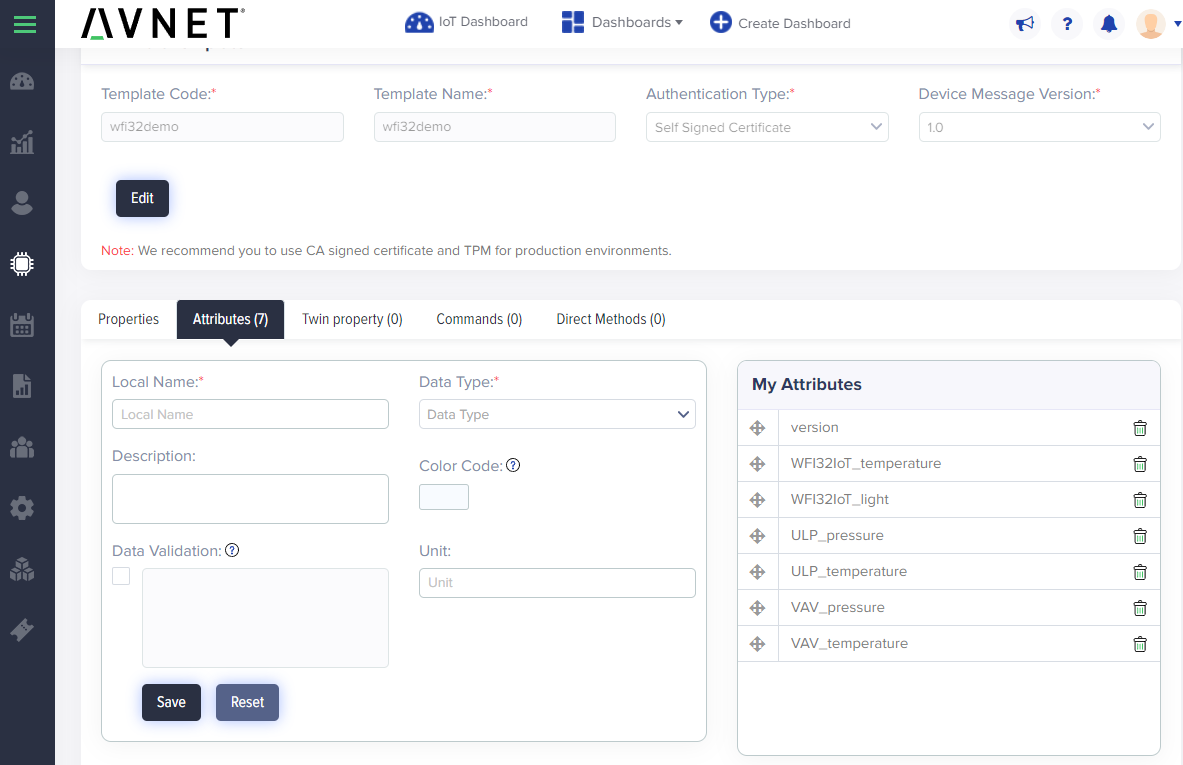
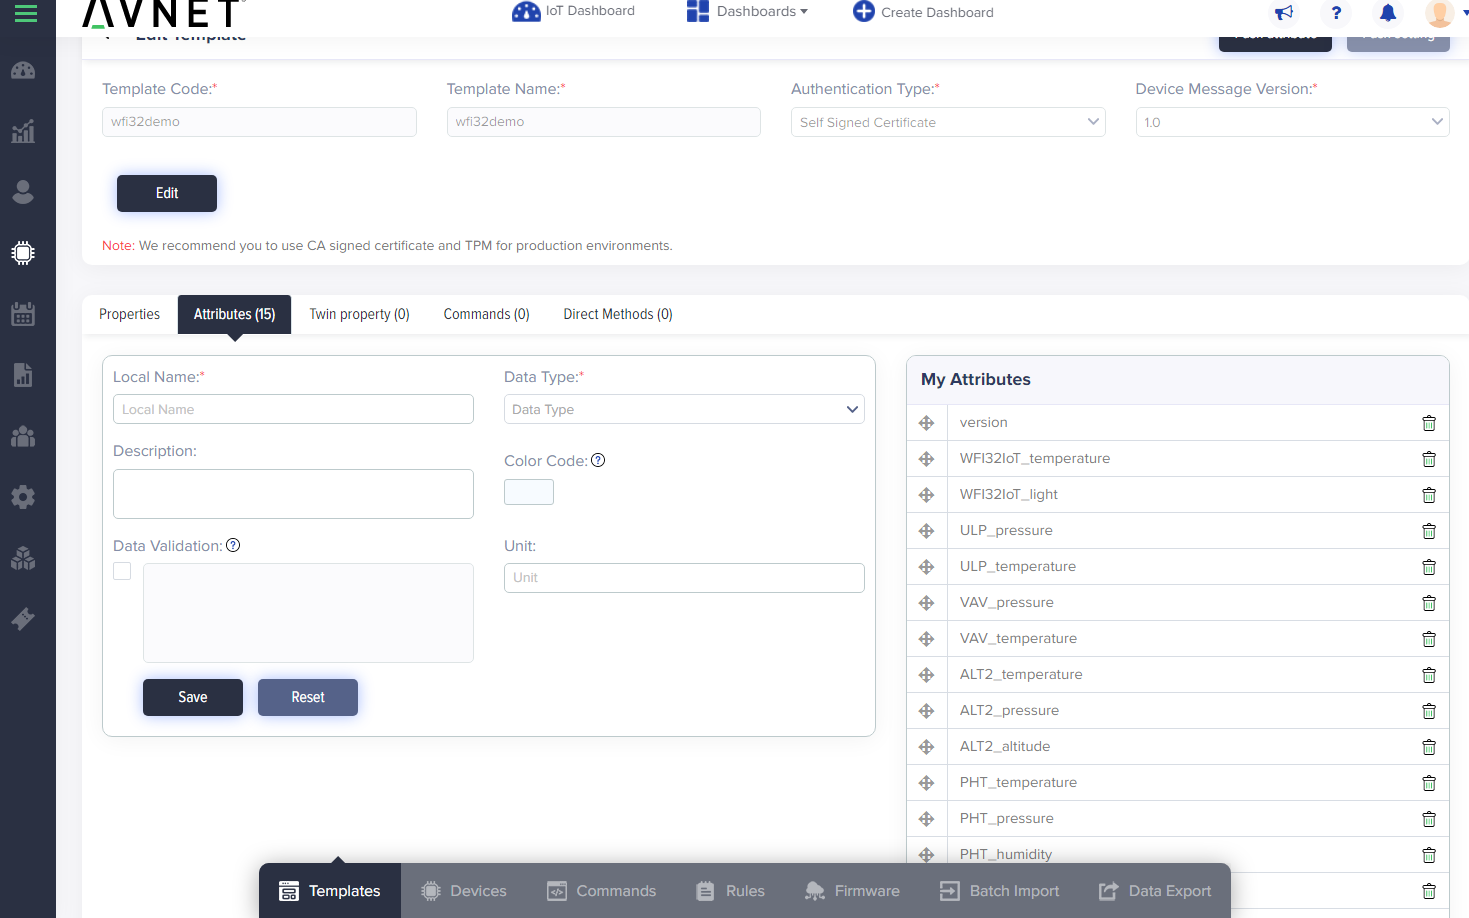
wfi32iot: support Altitude 2, PHT and Temp&Hum Click boards

diff --git a/samples/wfi32iot/basic-sample/src/iotconnect_app.c b/samples/wfi32iot/basic-sample/src/iotconnect_app.c
@@ -21,9 +21,23 @@
 #endif
 
 extern UCHAR _nx_driver_hardware_address[];
+
+
+// Various Click Board sensors supported by the demo
+extern ALTITUDE2_RETVAL ALTITUDE2_status;
+static ALTITUDE2_Data altitude2;
+
+extern PHT_RETVAL PHT_status;
+static PHT_Data pht;
+
+extern temphum14_return_value_t TEMPHUM14_status;
+static uint32_t HTU31_serialNumber;
+
 extern vavpress_sensor_param_data_t VAVPRESS_param_data;
 extern vavpress_return_value_t VAVPRESS_status;
 extern ultralowpress_return_value_t ULTRALOWPRESS_status;
+// ///////////////////
+
 
 static IotConnectAzrtosConfig azrtos_config;
 static IotcAuthInterfaceContext auth_driver_context = NULL;
@@ -167,6 +181,7 @@ static void publish_telemetry() {
         iotcl_telemetry_set_number(msg, "ULP_temperature", ULTRALOWPRESS_getTemperature());
         iotcl_telemetry_set_number(msg, "ULP_pressure", ULTRALOWPRESS_getPressure());            
     }
+
     if (VAVPRESS_status == VAVPRESS_OK) {
         float temperature, pressure;
         if (VAVPRESS_getSensorReadings(&VAVPRESS_param_data, &pressure, &temperature) == VAVPRESS_OK) {
@@ -174,7 +189,34 @@ static void publish_telemetry() {
             iotcl_telemetry_set_number(msg, "VAV_pressure", pressure);
         }
     }
-    
+
+    if (ALTITUDE2_status == ALTITUDE2_OK) {
+        float ALT2_temperature, ALT2_pressure, ALT2_altitude;
+        ALTITUDE2_readData(&altitude2, &ALT2_temperature, &ALT2_pressure, &ALT2_altitude);
+        iotcl_telemetry_set_number(msg, "ALT2_temperature", ALT2_temperature);
+        iotcl_telemetry_set_number(msg, "ALT2_pressure", ALT2_pressure);
+        iotcl_telemetry_set_number(msg, "ALT2_altitude", ALT2_altitude);
+    }
+
+    if (PHT_status == PHT_OK) {
+        float PHT_temperature, PHT_pressure, PHT_humidity;
+        PHT_getTemperaturePressure(&pht, &PHT_temperature, &PHT_pressure);
+        PHT_getRelativeHumidity(&PHT_humidity);
+        iotcl_telemetry_set_number(msg, "PHT_temperature", PHT_temperature);
+        iotcl_telemetry_set_number(msg, "PHT_pressure", PHT_pressure);
+        iotcl_telemetry_set_number(msg, "PHT_humidity", PHT_humidity);
+    }
+
+    if (HTU31_serialNumber != 0) {
+        float TEMPHUM14_temperature, TEMPHUM14_humidity;
+        TEMPHUM14_setConversion( TEMPHUM14_I2C_SLAVE_ADDR_GND, TEMPHUM14_CONVERSION_HUM_OSR_0_020, TEMPHUM14_CONVERSION_TEMP_0_040 );
+        TEMPHUM14_getTemperatureHumidity (TEMPHUM14_I2C_SLAVE_ADDR_GND, &TEMPHUM14_temperature, &TEMPHUM14_humidity );
+        iotcl_telemetry_set_number(msg, "TEMPHUM14_temperature", TEMPHUM14_temperature);
+        iotcl_telemetry_set_number(msg, "TEMPHUM14_humidity", TEMPHUM14_humidity);
+
+    }
+
+
     const char *str = iotcl_create_serialized_string(msg, false);
     iotcl_telemetry_destroy(msg);
     
@@ -192,18 +234,42 @@ bool iotconnect_sample_app(NX_IP *ip_ptr, NX_PACKET_POOL *pool_ptr, NX_DNS *dns_
     APP_SENSORS_init();
 
     printf("Detecting attached Click Board sensors...\r\n");
+
     VAVPRESS_init();
     if (VAVPRESS_status == VAVPRESS_OK) {
         printf("VAV Click detected\r\n");
     } else {
         printf("VAV Click not detected\r\n");
     }
+
     uint32_t SM8436_serialNumber = ULTRALOWPRESS_init();
     if (ULTRALOWPRESS_status == ULTRALOWPRESS_OK) {
         printf("ULP Click detected. Serial Number = %u\r\n", SM8436_serialNumber);
     } else {
-        printf("VULPV Click not detected\r\n");
+        printf("ULP Click not detected\r\n");
     }
+
+    ALTITUDE2_status = ALTITUDE2_init(&altitude2);
+    if (ALTITUDE2_status == ALTITUDE2_OK) {
+        printf("ALT2 Click detected\r\n");
+    } else {
+        printf("ALT2 Click not detected\r\n");
+    }
+
+    PHT_status = PHT_init(&pht);
+    if (PHT_status == PHT_OK) {
+        printf("PHT Click detected\r\n");
+    } else {
+        printf("PHT Click not detected\r\n");
+    }
+
+    HTU31_serialNumber = TEMPHUM14_init(TEMPHUM14_I2C_SLAVE_ADDR_GND);
+    if (HTU31_serialNumber != 0) {
+        printf("TEMPHUM14 Click detected. Serial Number = %u\r\n", HTU31_serialNumber);
+    } else {
+        printf("TEMPHUM14 Click not detected\r\n");
+    }
+
     
     IotConnectClientConfig *config = iotconnect_sdk_init_and_get_config();
     azrtos_config.ip_ptr = ip_ptr;

diff --git a/README.md b/README.md
@@ -3,6 +3,8 @@ This repo contains the IoTConnect C SDK and samples for AzureRTOS,
 for Avnet MaaxBoard RT, STM32L4 IoT Discovery Kit, NXP MTIMXRT1060 EVK, Microchip SAME54 Xplained Pro,
 Microchip WFI32-IoT (EV36W50A), and Renesas RX65N Cloud Kit.
 
+Various Click Board sensors are also supported by the WFI32-IoT project. See the [WFI32-IoT Quickstart Demo Guide](samples/wfi32iot/QUICKSTART_DEMO.md).
+
 To get started quickly, see the [IoTConnect AzureRTOS SDK STM32L4](https://www.youtube.com/watch?v=kkR9r2D4zBQ) demo video on YouTube.
 
 If contributing to this project, follow the [contributing guidelines](CONTRIBUTING.md)
@@ -34,15 +36,15 @@ Keep subdirectories selected, but unselect the actual mimxrt1060 sample director
 * For SAM E54 Xplained Pro:
   * Download and install MPLAB X IDE 5.45. IDE 5.40 has a known issue right now, so please use 5.35, or 5.45 and newer.
   * Download and install the MPLAB XC32/32++ Compiler 2.4.0 or later.
-  (Buy the subscripiton for XC32 pro compiler if needs size optimization. OTA is dual bank updates so make sure that the program size is below half of the flash size.)
+  (Buy the subscription for XC32 pro compiler if needs size optimization. OTA is dual bank updates so make sure that the program size is below half of the flash size.)
   * In MPLab, File > Open Project, navigate to the samples/same54xpro directory, select basic-sample, 
-  check the "Open Required Proejcts" checkbox, and click the "Open Project" button.   
+  check the "Open Required Projects" checkbox, and click the "Open Project" button.   
   * Plug in your board AFTER opening the project, so that MPLAB detects it
 from the extracted zip file
 * For WFI32-IoT board:
   * Download and install MPLAB X IDE 6.0 or newer.
   * Download and install the MPLAB XC32/32++ Compiler 4.1.0 or later.
-  (Buy the subscripiton for XC32 pro compiler if needs OTA feature because of the size optimization for the dual bank OTA)
+  (Buy the subscription for XC32 pro compiler if needs OTA feature because of the size optimization for the dual bank OTA)
   * The project also supports the sensors integration with VAV Press Click Board and Ultra-Low-Press Click Board. 
   You can get  more hardware related setup info [here](https://github.com/MicrochipTech/AzureDemo_WFI32E01/blob/v0.9.1/Clicks.md).
   * With MPLAX X IDE, Open the iotconnect-demo.X project from the [samples/wfi32iot] directory.
@@ -134,6 +136,8 @@ This can affect VirtualBox (and perhaps other virtualization platforms) filters 
 To work around this issue in VirtualBox you can remove the serial to a USB device filter.
 * The WFI32-IoT project cannot print long lines in the console past a certain length. This can cause data to be lost and missing newlines to "jumble" the text.
 * The WFI32-IoT project does not have a lot of free RAM. You may need to hand-pick components when integrating your own project.
+* When using the Altitude 2 Click board with the WFI32-IoT board, 
+if the PHT Click board is not connected, it is falsely detected, and random data is reported for PHT sensor values.
 * When using  2048 key size mimxrt1060 is too slow to complete processing the TLS handshake within 60 seconds. 
 That will cause the server to disconnect.
 * Ofast Optimization should not be enabled in the main project because of the

diff --git a/samples/wfi32iot/QUICKSTART_DEMO.md b/samples/wfi32iot/QUICKSTART_DEMO.md
@@ -11,8 +11,16 @@ The built-in ATECC608 secure element provides a quick and secure way
 to set up the device with IoTConnect.
 
 The Click board interface makes it possible to make use of hundreds of different Click boards from MikroE.
-The [VAV Press Click](https://www.mikroe.com/vav-press-click) and [Ultra-Low Press Click](https://www.mikroe.com/ultra-low-press-click) boards are
-directly supported by the demo software and provide the ability to send sensor readings from these boards directly to IoTConnect.
+The [VAV Press Click](https://www.mikroe.com/vav-press-click) 
+,[Ultra-Low Press Click](https://www.mikroe.com/ultra-low-press-click)
+,[PHT Click](https://www.mikroe.com/pht-click)
+,[TEMP&HUM 14 click](https://www.mikroe.com/temphum-14-click)
+and [Altitude 2 Click](https://www.mikroe.com/altitude-2-click)
+boards are directly supported by the demo software and provide 
+the ability to send sensor readings from these boards directly to IoTConnect.
+
+Please note that when using the Altitude 2 Click board, 
+if the PHT Click board is not connected, it is falsely detected, and random data is reported for PHT sensor values. 
 
 ## Hardware Setup
 
@@ -31,7 +39,7 @@ Firmware logs will be available on that COM port.
 
 * Download and install the [MPLAB X IDE package](https://www.microchip.com/en-us/tools-resources/develop/mplab-x-ide). 
 MPLAB IPE and 32-bit device support are the only required options during the installation.
-* Download the [binary package zip](https://saleshosted.z13.web.core.windows.net/sdk/AzureRTOS/iotconnect-demo-wfi32-011123.zip)
+* Download the [binary package zip](https://saleshosted.z13.web.core.windows.net/sdk/AzureRTOS/iotconnect-demo-wfi32-011923.zip)
 * Extract the iotconnect-demo.X.production.hex file from the zip.
 * Open the Microchip IPE application in order to program the firmware: 
   * In the **Device** entry box, select "WFI32E01"
@@ -60,6 +68,14 @@ MPLAB IPE and 32-bit device support are the only required options during the ins
   * *ULP_temperature* - Temperature measured on the Ultra-Low Press Click Board.
   * *VAV_pressure* - Air pressure measured on the VAV Press Click Board.
   * *VAV_temperature* - Temperature measured on the VAV Press Click Board.
+  * *ALT2_altitude* - Altitude above sea level measured on the Altitude 2 Press Click Board. 
+  * *ALT2_temperature* - Temperature measured on the Altitude 2 Press Click Board.
+  * *ALT2_pressure* - Air pressure measured on the Altitude 2 Press Click Board.
+  * *PHT_temperature* - Temperature measured on the VAV Press Click Board.
+  * *PHT_pressure* - Air pressure measured on the PHT Click Board.
+  * *PHT_humidity* - Air humidity measured on the PHT Click Board.
+  * *TEMPHUM14_temperature* - Temperature measured on the TEMP&HUM 14 Board.
+  * *TEMPHUM14_humidity* - Air humidity measured on the TEMP&HUM 14 Board.
 * The screenshot below shows an example template:
 
 ![Template Screenshot](media/template.png "Template Screenshot")
